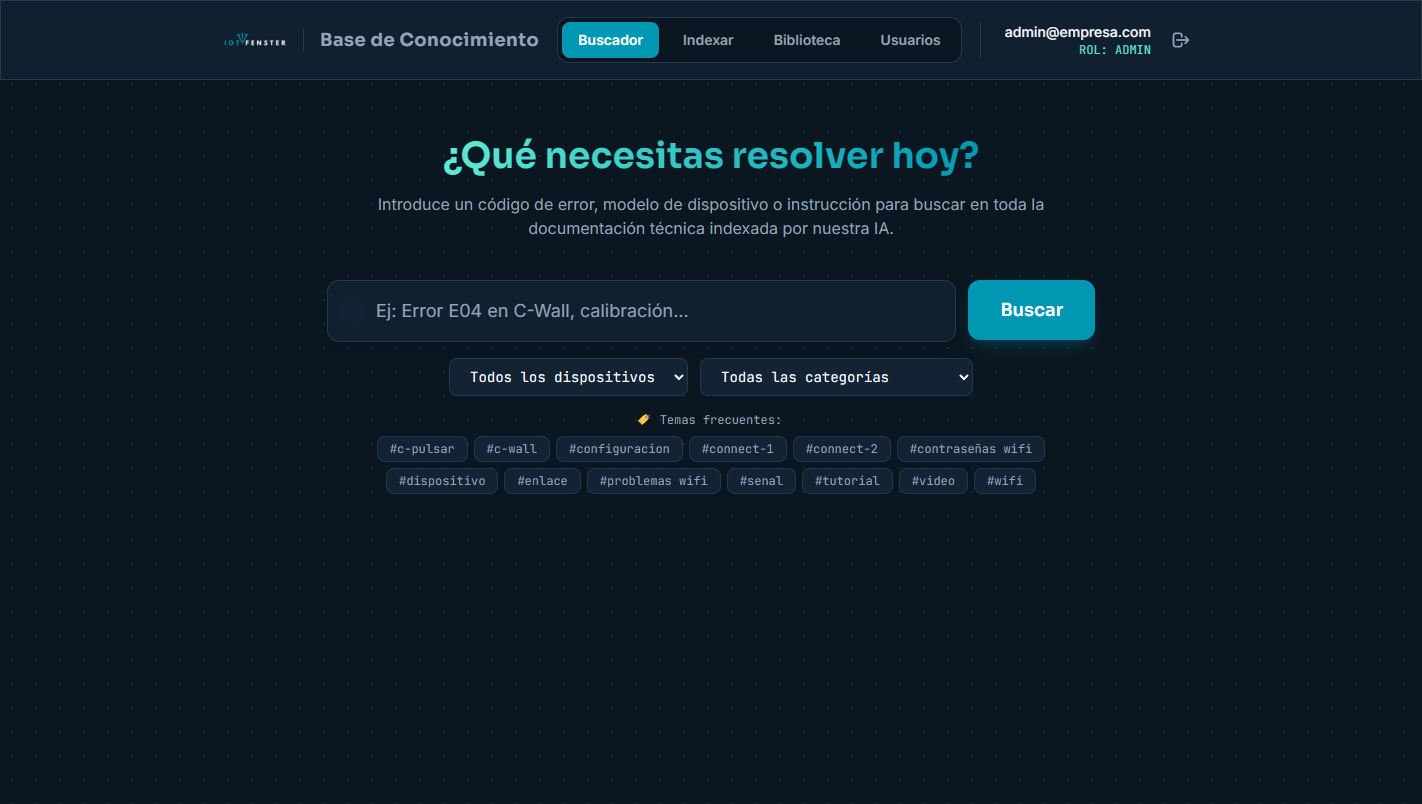
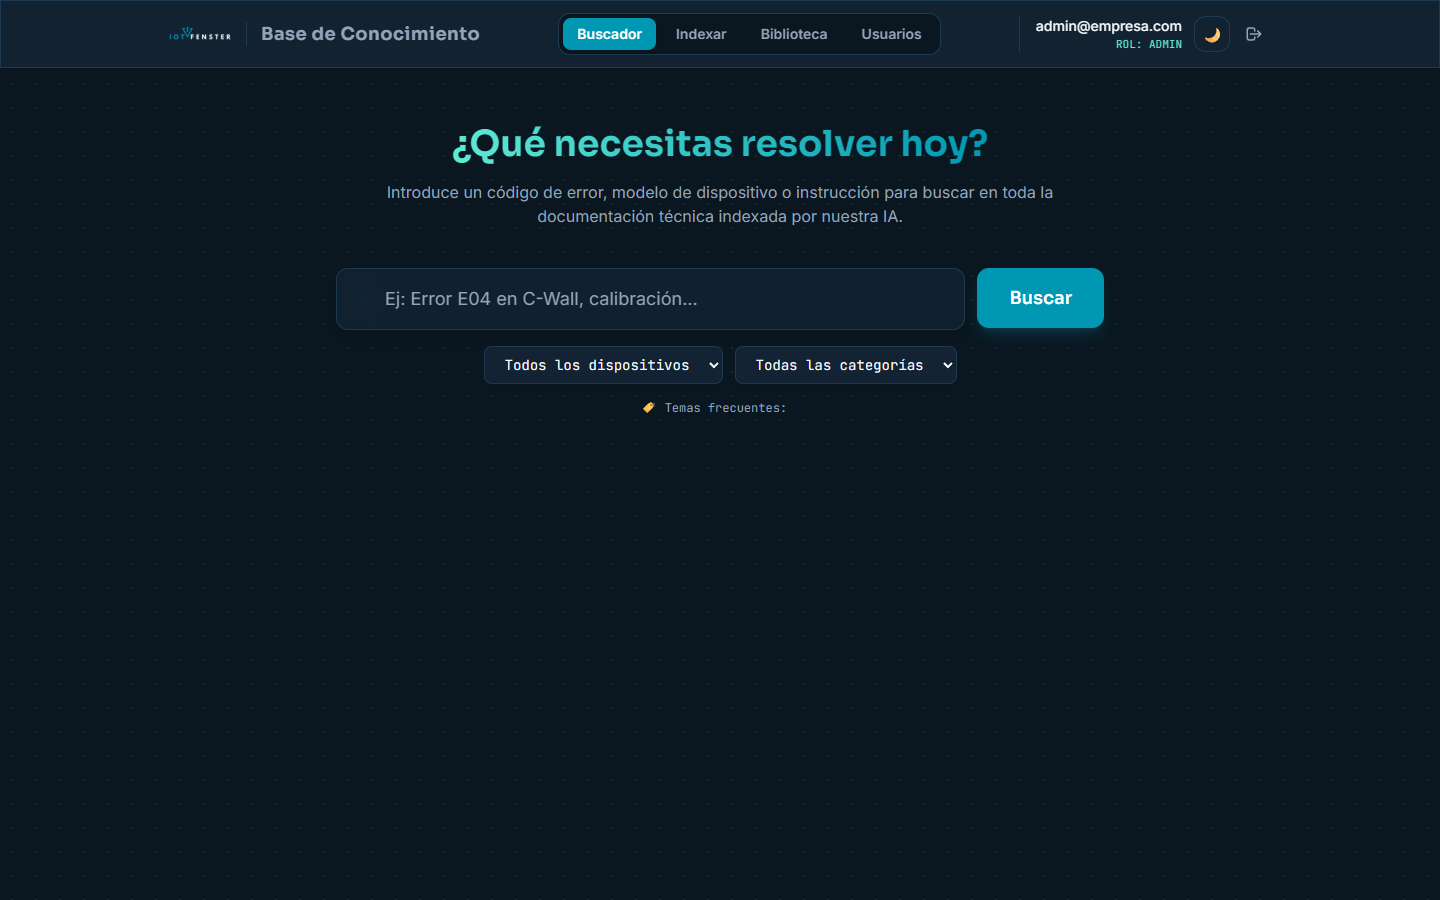
feat: Tema claro/oscuro, búsqueda insensible a acentos y header sin scroll
- Añadir selector de tema claro/oscuro con persistencia en localStorage
- Botón de tema en login y cabecera principal con detección de preferencia del sistema
- Variables CSS dinámicas para todos los colores del tema (dark/light)
- Eliminar scroll horizontal del menú superior al añadir el botón de tema
- Reorganizar header: logo | tabs centradas | email + tema + logout
- Reducir padding/gaps de pestañas y usar md:flex-nowrap para evitar overflow
- Búsqueda insensible a acentos con configuración spanish_unaccent en PostgreSQL
- Normalización de texto en frontend (NFD + strip diacritics) para sugerencias
- Actualizar capturas de pantalla con el nuevo diseño
- Actualizar README con sección de tema y nuevas features

diff --git a/app/templates/index.html b/app/templates/index.html
@@ -8,22 +8,34 @@
 <link rel="preconnect" href="https://fonts.googleapis.com">
 <link rel="preconnect" href="https://fonts.gstatic.com" crossorigin>
 <link href="https://fonts.googleapis.com/css2?family=Inter:wght@400;500;600&family=JetBrains+Mono:wght@400;500;700&family=Sora:wght@600;700&display=swap" rel="stylesheet">
+<!-- Theme Early Init to Prevent Flash of Unstyled Theme -->
+<script>
+  (function() {
+    const tema = localStorage.getItem('iot_theme') || (window.matchMedia && window.matchMedia('(prefers-color-scheme: light)').matches ? 'light' : 'dark');
+    document.documentElement.setAttribute('data-theme', tema);
+  })();
+</script>
 <!-- Tailwind CDN -->
 <script src="https://cdn.tailwindcss.com"></script>
 <script>
+  function withOpacity(varName) {
+    return function({ opacityValue }) {
+      return opacityValue ? 'rgba(var(' + varName + '), ' + opacityValue + ')' : 'rgb(var(' + varName + '))';
+    };
+  }
   tailwind.config = {
     theme: {
       extend: {
         colors: {
           iot: {
-            bg: '#0a1620',
-            panel: '#132333',
-            teal: '#0097b2',
-            tealLight: '#5eead4',
-            text: '#f8fafc',
-            textSec: '#94a3b8',
-            border: '#1e3a50',
-            hover: '#193046'
+            bg: withOpacity('--iot-bg-rgb'),
+            panel: withOpacity('--iot-panel-rgb'),
+            teal: withOpacity('--iot-teal-rgb'),
+            tealLight: withOpacity('--iot-teal-light-rgb'),
+            text: withOpacity('--iot-text-rgb'),
+            textSec: withOpacity('--iot-text-sec-rgb'),
+            border: withOpacity('--iot-border-rgb'),
+            hover: withOpacity('--iot-hover-rgb')
           }
         },
         fontFamily: {
@@ -36,13 +48,45 @@
   }
 </script>
 <style type="text/tailwindcss">
+  :root {
+    /* Modo Oscuro (Por defecto) */
+    --iot-bg-rgb: 10, 22, 32;
+    --iot-panel-rgb: 19, 35, 51;
+    --iot-teal-rgb: 0, 151, 178;
+    --iot-teal-light-rgb: 94, 234, 212;
+    --iot-text-rgb: 248, 250, 252;
+    --iot-text-sec-rgb: 148, 163, 184;
+    --iot-border-rgb: 30, 58, 80;
+    --iot-hover-rgb: 25, 48, 70;
+    --dot-color: rgba(94, 234, 212, 0.1);
+    --scrollbar-track: #0a1620;
+    --scrollbar-thumb: #1e3a50;
+    --scrollbar-thumb-hover: #0097b2;
+  }
+
+  [data-theme="light"] {
+    /* Modo Claro Elegante y de Alto Contraste */
+    --iot-bg-rgb: 241, 245, 249;
+    --iot-panel-rgb: 255, 255, 255;
+    --iot-teal-rgb: 8, 145, 178;
+    --iot-teal-light-rgb: 14, 116, 144;
+    --iot-text-rgb: 15, 23, 42;
+    --iot-text-sec-rgb: 100, 116, 139;
+    --iot-border-rgb: 203, 213, 225;
+    --iot-hover-rgb: 226, 232, 240;
+    --dot-color: rgba(8, 145, 178, 0.08);
+    --scrollbar-track: #f1f5f9;
+    --scrollbar-thumb: #cbd5e1;
+    --scrollbar-thumb-hover: #94a3b8;
+  }
+
   @layer utilities {
     .bg-dots {
-      background-image: radial-gradient(circle, rgba(94, 234, 212, 0.1) 1.5px, transparent 1.5px);
+      background-image: radial-gradient(circle, var(--dot-color) 1.5px, transparent 1.5px);
       background-size: 24px 24px;
     }
     .glass-panel {
-      @apply bg-iot-panel/80 backdrop-blur-md border border-iot-border;
+      @apply bg-iot-panel/90 backdrop-blur-md border border-iot-border;
     }
   }
   
@@ -57,16 +101,22 @@
   
   /* Custom Scrollbar */
   ::-webkit-scrollbar { width: 8px; }
-  ::-webkit-scrollbar-track { background: #0a1620; }
-  ::-webkit-scrollbar-thumb { background: #1e3a50; border-radius: 4px; }
-  ::-webkit-scrollbar-thumb:hover { background: #0097b2; }
+  ::-webkit-scrollbar-track { background: var(--scrollbar-track); }
+  ::-webkit-scrollbar-thumb { background: var(--scrollbar-thumb); border-radius: 4px; }
+  ::-webkit-scrollbar-thumb:hover { background: var(--scrollbar-thumb-hover); }
 </style>
 </head>
-<body class="bg-iot-bg text-iot-text font-inter bg-dots min-h-screen flex flex-col">
+<body class="bg-iot-bg text-iot-text font-inter bg-dots min-h-screen flex flex-col transition-colors duration-200">
 
   <!-- MODAL DE LOGIN -->
   <div id="login-modal" class="fixed inset-0 z-50 bg-iot-bg/95 backdrop-blur-sm flex items-center justify-center p-4">
-    <div class="glass-panel p-10 rounded-2xl w-full max-w-md shadow-2xl shadow-iot-teal/10">
+    <div class="glass-panel p-10 rounded-2xl w-full max-w-md shadow-2xl shadow-iot-teal/10 relative">
+      <!-- Selector de Tema en Login -->
+      <div class="absolute top-4 right-4">
+        <button type="button" class="btn-toggle-theme p-2 rounded-xl text-iot-textSec hover:text-iot-teal hover:bg-iot-hover border border-iot-border transition-all flex items-center justify-center w-8 h-8 shadow-sm" title="Cambiar tema (Claro / Oscuro)">
+          <span class="theme-icon-label select-none text-sm">🌙</span>
+        </button>
+      </div>
       <div class="flex justify-center mb-6">
         <img src="/static/logo.png" alt="IoT Logo" class="h-16 object-contain">
       </div>
@@ -324,34 +374,42 @@
   </div>
 
   <!-- CABECERA -->
-  <header class="glass-panel sticky top-0 z-10 border-b-0 border-b border-iot-border">
-    <div class="max-w-5xl mx-auto px-4 md:px-6 py-4 flex flex-wrap items-center justify-between gap-4">
+  <header class="glass-panel sticky top-0 z-30 border-b border-iot-border">
+    <div class="max-w-6xl mx-auto px-4 sm:px-6 py-2.5 sm:py-3 flex flex-wrap md:flex-nowrap items-center justify-between gap-y-2.5 gap-x-4">
       
       <!-- Logo (Order 1) -->
-      <div class="flex items-center gap-3 shrink-0 order-1">
-        <img src="/static/logo.png" alt="IoT Logo" class="h-8 object-contain">
-        <div class="h-6 w-px bg-iot-border mx-1 hidden sm:block"></div>
-        <span class="font-sora text-lg font-bold text-iot-textSec tracking-wide hidden sm:block">Base de Conocimiento</span>
+      <div class="flex items-center gap-2.5 sm:gap-3 shrink-0 order-1">
+        <img src="/static/logo.png" alt="IoT Logo" class="h-7 sm:h-8 object-contain">
+        <div class="h-5 sm:h-6 w-px bg-iot-border mx-0.5 hidden sm:block"></div>
+        <span class="font-sora text-sm sm:text-base lg:text-lg font-bold text-iot-textSec tracking-wide hidden sm:block whitespace-nowrap">Base de Conocimiento</span>
       </div>
       
-      <!-- User Profile & Logout (Order 2 on mobile, Order 3 on desktop) -->
-      <div class="flex items-center gap-3 md:border-l md:border-iot-border md:pl-6 shrink-0 order-2 md:order-3">
+      <!-- User Profile, Theme Toggle & Logout (Order 2 on mobile, Order 3 on desktop) -->
+      <div class="flex items-center gap-2 sm:gap-3 md:border-l md:border-iot-border md:pl-4 shrink-0 order-2 md:order-3">
         <div class="text-right hidden sm:block">
-          <div id="user-email-display" class="text-sm font-medium"></div>
-          <div id="user-role-display" class="text-xs font-mono text-iot-tealLight uppercase"></div>
+          <div id="user-email-display" class="text-xs sm:text-sm font-medium truncate max-w-[130px] lg:max-w-[190px]"></div>
+          <div id="user-role-display" class="text-[11px] font-mono text-iot-tealLight uppercase"></div>
         </div>
-        <button id="btn-logout" class="text-iot-textSec hover:text-red-400 transition-colors p-2 rounded-lg hover:bg-iot-panel" title="Cerrar sesión">
-          <svg class="w-5 h-5" fill="none" stroke="currentColor" viewBox="0 0 24 24"><path stroke-linecap="round" stroke-linejoin="round" stroke-width="2" d="M17 16l4-4m0 0l-4-4m4 4H7m6 4v1a3 3 0 01-3 3H6a3 3 0 01-3-3V7a3 3 0 013-3h4a3 3 0 013 3v1"></path></svg>
-        </button>
+
+        <div class="flex items-center gap-1.5">
+          <!-- Botón Selector de Tema -->
+          <button type="button" id="btn-theme-toggle" class="btn-toggle-theme p-1.5 sm:p-2 rounded-xl text-iot-textSec hover:text-iot-teal hover:bg-iot-hover border border-iot-border transition-all flex items-center justify-center w-8 h-8 sm:w-9 sm:h-9 shadow-sm" title="Cambiar tema (Claro / Oscuro)">
+            <span class="theme-icon-label select-none text-sm sm:text-base">🌙</span>
+          </button>
+
+          <button id="btn-logout" class="text-iot-textSec hover:text-red-400 transition-colors p-1.5 sm:p-2 rounded-xl hover:bg-iot-panel border border-transparent hover:border-iot-border w-8 h-8 sm:w-9 sm:h-9 flex items-center justify-center" title="Cerrar sesión">
+            <svg class="w-4 h-4 sm:w-5 sm:h-5" fill="none" stroke="currentColor" viewBox="0 0 24 24"><path stroke-linecap="round" stroke-linejoin="round" stroke-width="2" d="M17 16l4-4m0 0l-4-4m4 4H7m6 4v1a3 3 0 01-3 3H6a3 3 0 01-3-3V7a3 3 0 013-3h4a3 3 0 013 3v1"></path></svg>
+          </button>
+        </div>
       </div>
 
       <!-- Tabs (Order 3 on mobile, Order 2 on desktop) -->
-      <div class="w-full md:w-auto md:flex-1 overflow-x-auto flex justify-start md:justify-center order-3 md:order-2">
-        <nav class="pestanas flex gap-2 bg-iot-bg p-1 rounded-xl border border-iot-border overflow-x-auto w-max" id="nav-menu">
-          <button class="pestana activa px-4 py-2 rounded-lg text-sm font-semibold text-iot-textSec hover:text-iot-text transition-colors [&.activa]:bg-iot-teal [&.activa]:text-white [&.activa]:shadow-md shrink-0" data-vista="buscar">Buscador</button>
-          <button class="pestana px-4 py-2 rounded-lg text-sm font-semibold text-iot-textSec hover:text-iot-text transition-colors [&.activa]:bg-iot-teal [&.activa]:text-white [&.activa]:shadow-md hidden shrink-0" data-vista="subir" id="tab-subir">Indexar</button>
-          <button class="pestana px-4 py-2 rounded-lg text-sm font-semibold text-iot-textSec hover:text-iot-text transition-colors [&.activa]:bg-iot-teal [&.activa]:text-white [&.activa]:shadow-md hidden shrink-0" data-vista="biblioteca" id="tab-biblioteca">Biblioteca</button>
-          <button class="pestana px-4 py-2 rounded-lg text-sm font-semibold text-iot-textSec hover:text-iot-text transition-colors [&.activa]:bg-iot-teal [&.activa]:text-white [&.activa]:shadow-md hidden shrink-0" data-vista="usuarios" id="tab-usuarios">Usuarios</button>
+      <div class="w-full md:w-auto flex justify-center order-3 md:order-2 shrink-0">
+        <nav class="pestanas flex gap-1 sm:gap-1.5 bg-iot-bg p-1 rounded-xl border border-iot-border shrink-0" id="nav-menu">
+          <button class="pestana activa px-3 sm:px-3.5 py-1.5 rounded-lg text-xs sm:text-sm font-semibold text-iot-textSec hover:text-iot-text transition-colors [&.activa]:bg-iot-teal [&.activa]:text-white [&.activa]:shadow-md shrink-0 whitespace-nowrap" data-vista="buscar">Buscador</button>
+          <button class="pestana px-3 sm:px-3.5 py-1.5 rounded-lg text-xs sm:text-sm font-semibold text-iot-textSec hover:text-iot-text transition-colors [&.activa]:bg-iot-teal [&.activa]:text-white [&.activa]:shadow-md hidden shrink-0 whitespace-nowrap" data-vista="subir" id="tab-subir">Indexar</button>
+          <button class="pestana px-3 sm:px-3.5 py-1.5 rounded-lg text-xs sm:text-sm font-semibold text-iot-textSec hover:text-iot-text transition-colors [&.activa]:bg-iot-teal [&.activa]:text-white [&.activa]:shadow-md hidden shrink-0 whitespace-nowrap" data-vista="biblioteca" id="tab-biblioteca">Biblioteca</button>
+          <button class="pestana px-3 sm:px-3.5 py-1.5 rounded-lg text-xs sm:text-sm font-semibold text-iot-textSec hover:text-iot-text transition-colors [&.activa]:bg-iot-teal [&.activa]:text-white [&.activa]:shadow-md hidden shrink-0 whitespace-nowrap" data-vista="usuarios" id="tab-usuarios">Usuarios</button>
         </nav>
       </div>
 
@@ -618,6 +676,6 @@
 
   </main>
 
-  <script src="/static/app.js?v=8"></script>
+  <script src="/static/app.js?v=10"></script>
 </body>
 </html>

diff --git a/app/static/app.js b/app/static/app.js
@@ -4,6 +4,52 @@ let userRole = localStorage.getItem("iot_role");
 let userEmail = localStorage.getItem("iot_email");
 let isFirstLogin = false;
 
+// ---------- Normalización de Texto (Insensible a Acentos y Mayúsculas/Minúsculas) ----------
+function normalizarTexto(str) {
+  if (!str) return '';
+  return String(str)
+    .normalize("NFD")
+    .replace(/[\u0300-\u036f]/g, "")
+    .toLowerCase()
+    .trim();
+}
+
+// ---------- Gestión de Tema Claro / Oscuro ----------
+function aplicarTema(tema) {
+  const temaFinal = (tema === 'light') ? 'light' : 'dark';
+  document.documentElement.setAttribute('data-theme', temaFinal);
+  localStorage.setItem('iot_theme', temaFinal);
+
+  const iconText = temaFinal === 'light' ? '☀' : '🌙';
+  const titleText = temaFinal === 'light' ? 'Cambiar a Modo Oscuro' : 'Cambiar a Modo Claro';
+
+  document.querySelectorAll('.theme-icon-label').forEach((el) => {
+    el.textContent = iconText;
+  });
+  document.querySelectorAll('.btn-toggle-theme').forEach((btn) => {
+    btn.setAttribute('title', titleText);
+  });
+}
+
+function alternarTema() {
+  const temaActual = document.documentElement.getAttribute('data-theme') || 'dark';
+  const nuevoTema = temaActual === 'light' ? 'dark' : 'light';
+  aplicarTema(nuevoTema);
+}
+
+function inicializarTema() {
+  const temaGuardado = localStorage.getItem('iot_theme') || 
+    (window.matchMedia && window.matchMedia('(prefers-color-scheme: light)').matches ? 'light' : 'dark');
+  aplicarTema(temaGuardado);
+
+  document.querySelectorAll('.btn-toggle-theme').forEach((btn) => {
+    btn.addEventListener('click', alternarTema);
+  });
+}
+
+// Inicializar tema y listeners al cargar el script
+inicializarTema();
+
 // ---------- Seguridad: Prevención XSS ----------
 function escapeHtml(str) {
   if (!str) return '';
@@ -68,6 +114,7 @@ function verificarSesion() {
   if (token && userRole && userEmail) {
     loginModal.classList.add("oculto");
     userEmailDisplay.textContent = userEmail;
+    userEmailDisplay.setAttribute("title", userEmail);
     userRoleDisplay.textContent = "Rol: " + userRole;
     
     // RBAC: Mostrar u ocultar pestañas según el rol
@@ -271,17 +318,17 @@ function mostrarSugerencias(texto) {
     listaSugerencias.classList.remove("visible");
     return;
   }
-  const textoNorm = texto.toLowerCase();
+  const textoNorm = normalizarTexto(texto);
   const candidatos = [];
 
   sugerenciasDisponibles.nombres.forEach((n) => {
-    if (n.toLowerCase().includes(textoNorm)) candidatos.push({ texto: n, tipo: "Manual" });
+    if (normalizarTexto(n).includes(textoNorm)) candidatos.push({ texto: n, tipo: "Manual" });
   });
   sugerenciasDisponibles.dispositivos.forEach((d) => {
-    if (d.toLowerCase().includes(textoNorm)) candidatos.push({ texto: d, tipo: "Dispositivo" });
+    if (normalizarTexto(d).includes(textoNorm)) candidatos.push({ texto: d, tipo: "Dispositivo" });
   });
   sugerenciasDisponibles.categorias.forEach((c) => {
-    if (c.toLowerCase().includes(textoNorm)) candidatos.push({ texto: c, tipo: "Categoría" });
+    if (normalizarTexto(c).includes(textoNorm)) candidatos.push({ texto: c, tipo: "Categoría" });
   });
 
   const unicos = candidatos.filter((c, i) => candidatos.findIndex((x) => x.texto === c.texto) === i).slice(0, 6);

diff --git a/app/database.py b/app/database.py
@@ -96,9 +96,22 @@ class VideoFragmento(Base):
 def init_db() -> None:
     """Crea las tablas, inicializa pgvector y crea usuario admin por defecto."""
     try:
-        # Habilitar pgvector en postgres
+        # Habilitar pgvector, unaccent y configuración de búsqueda insensible a acentos en postgres
         with engine.connect() as conn:
             conn.execute(text("CREATE EXTENSION IF NOT EXISTS vector"))
+            conn.execute(text("CREATE EXTENSION IF NOT EXISTS unaccent"))
+            conn.execute(text("""
+                DO $$
+                BEGIN
+                    IF NOT EXISTS (SELECT 1 FROM pg_ts_config WHERE cfgname = 'spanish_unaccent') THEN
+                        CREATE TEXT SEARCH CONFIGURATION spanish_unaccent (COPY = spanish);
+                        ALTER TEXT SEARCH CONFIGURATION spanish_unaccent
+                            ALTER MAPPING FOR hword, hword_part, word
+                            WITH unaccent, spanish_stem;
+                    END IF;
+                END
+                $$;
+            """))
             conn.execute(text("ALTER TABLE manuales ADD COLUMN IF NOT EXISTS etiquetas TEXT DEFAULT '';"))
             conn.commit()
             
@@ -474,18 +487,18 @@ def buscar_videos(query: str, dispositivo: str = "", categoria: str = "", limite
                 v.id AS video_db_id, v.video_id, v.titulo, v.canal, v.url, v.miniatura_url,
                 v.dispositivo, v.categoria, v.etiquetas, v.nivel_acceso, v.fecha_subida,
                 COALESCE(vf.segundo_inicio, 0) as segundo_inicio,
-                ts_headline('spanish', COALESCE(vf.texto, v.titulo), websearch_to_tsquery('spanish', :query), 'StartSel=<mark>, StopSel=</mark>, MaxWords=30, MinWords=15') as fragmento,
+                ts_headline('spanish_unaccent', COALESCE(vf.texto, v.titulo), websearch_to_tsquery('spanish_unaccent', :query), 'StartSel=<mark>, StopSel=</mark>, MaxWords=30, MinWords=15') as fragmento,
                 ts_rank(
-                    setweight(to_tsvector('spanish', v.titulo || ' ' || COALESCE(v.dispositivo, '') || ' ' || COALESCE(v.categoria, '') || ' ' || COALESCE(v.etiquetas, '')), 'A') || 
-                    setweight(to_tsvector('spanish', COALESCE(vf.texto, v.transcripcion_texto, '')), 'C'),
-                    websearch_to_tsquery('spanish', :query)
+                    setweight(to_tsvector('spanish_unaccent', v.titulo || ' ' || COALESCE(v.dispositivo, '') || ' ' || COALESCE(v.categoria, '') || ' ' || COALESCE(v.etiquetas, '')), 'A') || 
+                    setweight(to_tsvector('spanish_unaccent', COALESCE(vf.texto, v.transcripcion_texto, '')), 'C'),
+                    websearch_to_tsquery('spanish_unaccent', :query)
                 ) as relevancia
             FROM videos v
             LEFT JOIN video_fragmentos vf ON vf.video_id = v.id
             WHERE {where_sql} AND (
-                setweight(to_tsvector('spanish', v.titulo || ' ' || COALESCE(v.dispositivo, '') || ' ' || COALESCE(v.categoria, '') || ' ' || COALESCE(v.etiquetas, '')), 'A') || 
-                setweight(to_tsvector('spanish', COALESCE(vf.texto, v.transcripcion_texto, '')), 'C')
-            ) @@ websearch_to_tsquery('spanish', :query)
+                setweight(to_tsvector('spanish_unaccent', v.titulo || ' ' || COALESCE(v.dispositivo, '') || ' ' || COALESCE(v.categoria, '') || ' ' || COALESCE(v.etiquetas, '')), 'A') || 
+                setweight(to_tsvector('spanish_unaccent', COALESCE(vf.texto, v.transcripcion_texto, '')), 'C')
+            ) @@ websearch_to_tsquery('spanish_unaccent', :query)
             ORDER BY relevancia DESC
         """
         params = {"query": query, "dispositivo": dispositivo, "categoria": categoria}
@@ -562,18 +575,18 @@ def buscar(query: str, dispositivo: str = "", categoria: str = "", orden: str = 
                 m.id AS manual_id, m.nombre_original, m.nombre_archivo, 
                 m.dispositivo, m.categoria, m.etiquetas, m.num_paginas, m.fecha_subida, m.nivel_acceso,
                 p.numero_pagina, 
-                ts_headline('spanish', p.texto, websearch_to_tsquery('spanish', :query), 'StartSel=<mark>, StopSel=</mark>, MaxWords=30, MinWords=15') as fragmento,
+                ts_headline('spanish_unaccent', p.texto, websearch_to_tsquery('spanish_unaccent', :query), 'StartSel=<mark>, StopSel=</mark>, MaxWords=30, MinWords=15') as fragmento,
                 ts_rank(
-                    setweight(to_tsvector('spanish', m.nombre_original || ' ' || COALESCE(m.dispositivo, '') || ' ' || COALESCE(m.categoria, '') || ' ' || COALESCE(m.etiquetas, '')), 'A') || 
-                    setweight(to_tsvector('spanish', p.texto), 'C'),
-                    websearch_to_tsquery('spanish', :query)
+                    setweight(to_tsvector('spanish_unaccent', m.nombre_original || ' ' || COALESCE(m.dispositivo, '') || ' ' || COALESCE(m.categoria, '') || ' ' || COALESCE(m.etiquetas, '')), 'A') || 
+                    setweight(to_tsvector('spanish_unaccent', p.texto), 'C'),
+                    websearch_to_tsquery('spanish_unaccent', :query)
                 ) as relevancia
             FROM paginas p
             JOIN manuales m ON m.id = p.manual_id
             WHERE {where_sql} AND (
-                setweight(to_tsvector('spanish', m.nombre_original || ' ' || COALESCE(m.dispositivo, '') || ' ' || COALESCE(m.categoria, '') || ' ' || COALESCE(m.etiquetas, '')), 'A') || 
-                setweight(to_tsvector('spanish', p.texto), 'C')
-            ) @@ websearch_to_tsquery('spanish', :query)
+                setweight(to_tsvector('spanish_unaccent', m.nombre_original || ' ' || COALESCE(m.dispositivo, '') || ' ' || COALESCE(m.categoria, '') || ' ' || COALESCE(m.etiquetas, '')), 'A') || 
+                setweight(to_tsvector('spanish_unaccent', p.texto), 'C')
+            ) @@ websearch_to_tsquery('spanish_unaccent', :query)
             ORDER BY relevancia DESC
         """
         

diff --git a/README.md b/README.md
@@ -45,6 +45,15 @@ Control de acceso basado en roles (`admin`, `tecnico`, `comercial`) con autentic
 
 ---
 
+### 🌗 6. Modo Claro / Oscuro
+Selector de tema integrado con persistencia en `localStorage` y detección automática de preferencia del sistema. Disponible desde la pantalla de login y la cabecera principal.
+
+![Modo Claro - Login](docs/screenshots/10_modo_claro_login.png)
+![Modo Claro - Buscador](docs/screenshots/11_modo_claro_buscador.png)
+![Modo Claro - Biblioteca](docs/screenshots/14_modo_claro_biblioteca.png)
+
+---
+
 ## ✨ Características Principales
 
 - **Búsqueda Avanzada en Español**: Motor PostgreSQL con `tsvector` y diccionarios de derivación morfológica (stemming) en español, con soporte para búsqueda vectorial semántica (`pgvector`).
@@ -57,6 +66,8 @@ Control de acceso basado en roles (`admin`, `tecnico`, `comercial`) con autentic
   - `tecnico`: Acceso a manuales técnicos y comerciales, buscador y visor.
   - `comercial`: Acceso restringido exclusivamente a documentación pública.
 - **Seguridad Reforzada**: Tokens JWT con rotación, protección contra Path Traversal, mitigación de ataques XSS con sanitización estricta, rate-limiting contra fuerza bruta en login y ejecución en contenedores sin privilegios de root.
+- **Tema Claro / Oscuro**: Selector de apariencia con detección automática de preferencia del sistema y persistencia en `localStorage`.
+- **Búsqueda Insensible a Acentos**: Configuración `spanish_unaccent` en PostgreSQL para que búsquedas como `instalacion` e `INSTALACIÓN` devuelvan los mismos resultados.
 
 ---
 
